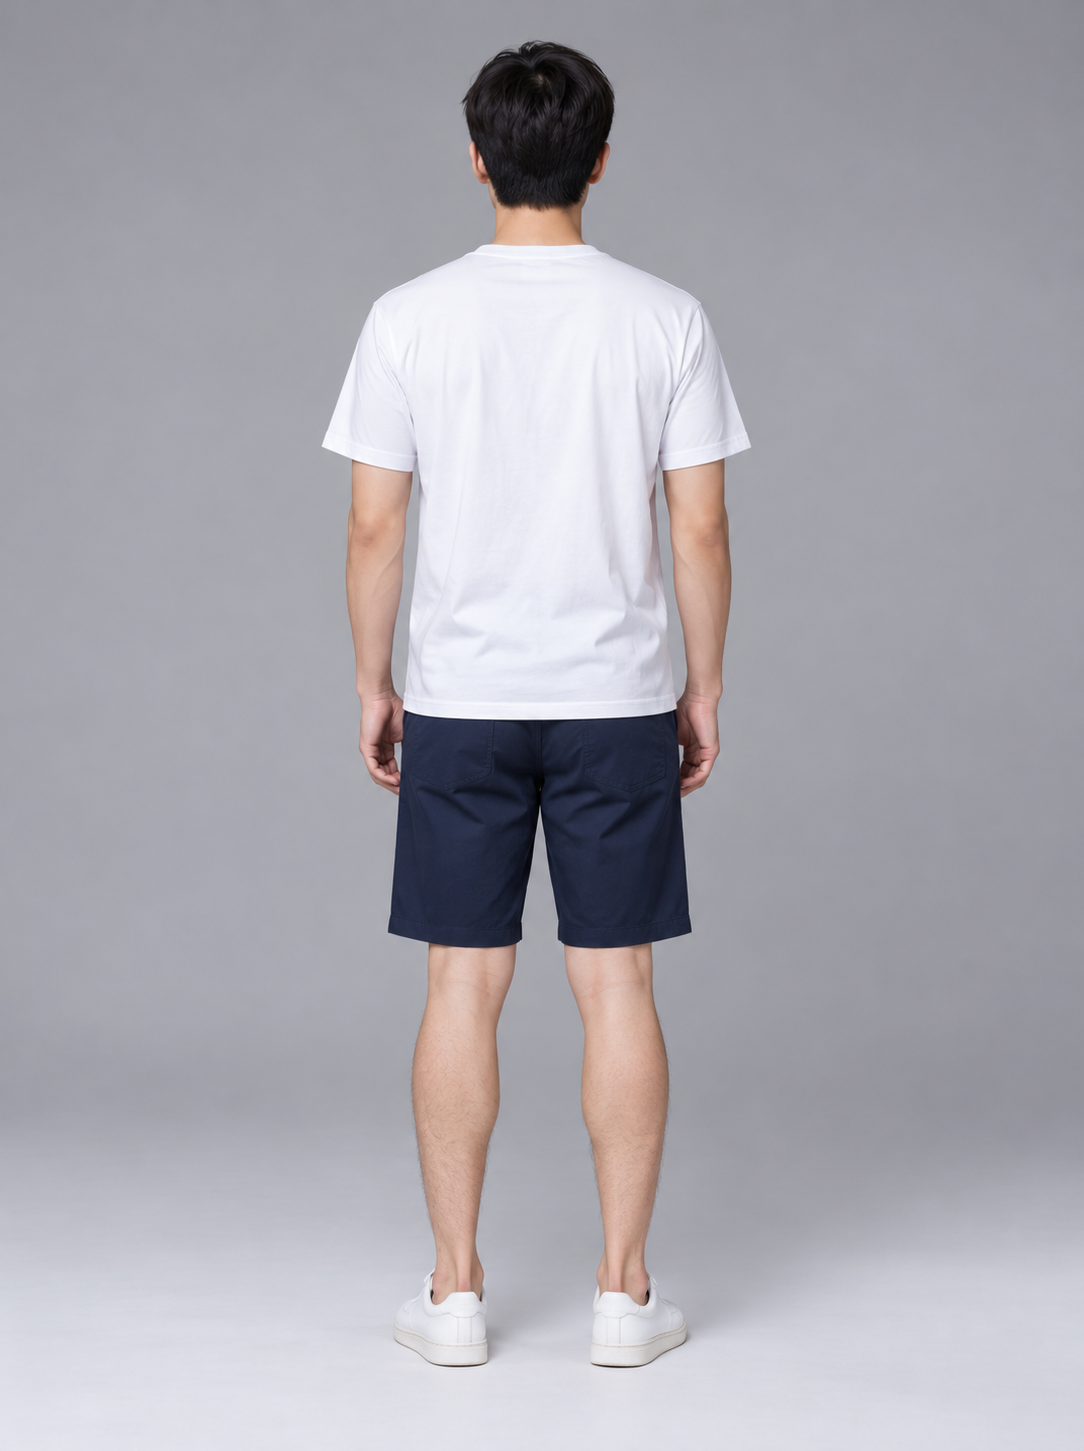
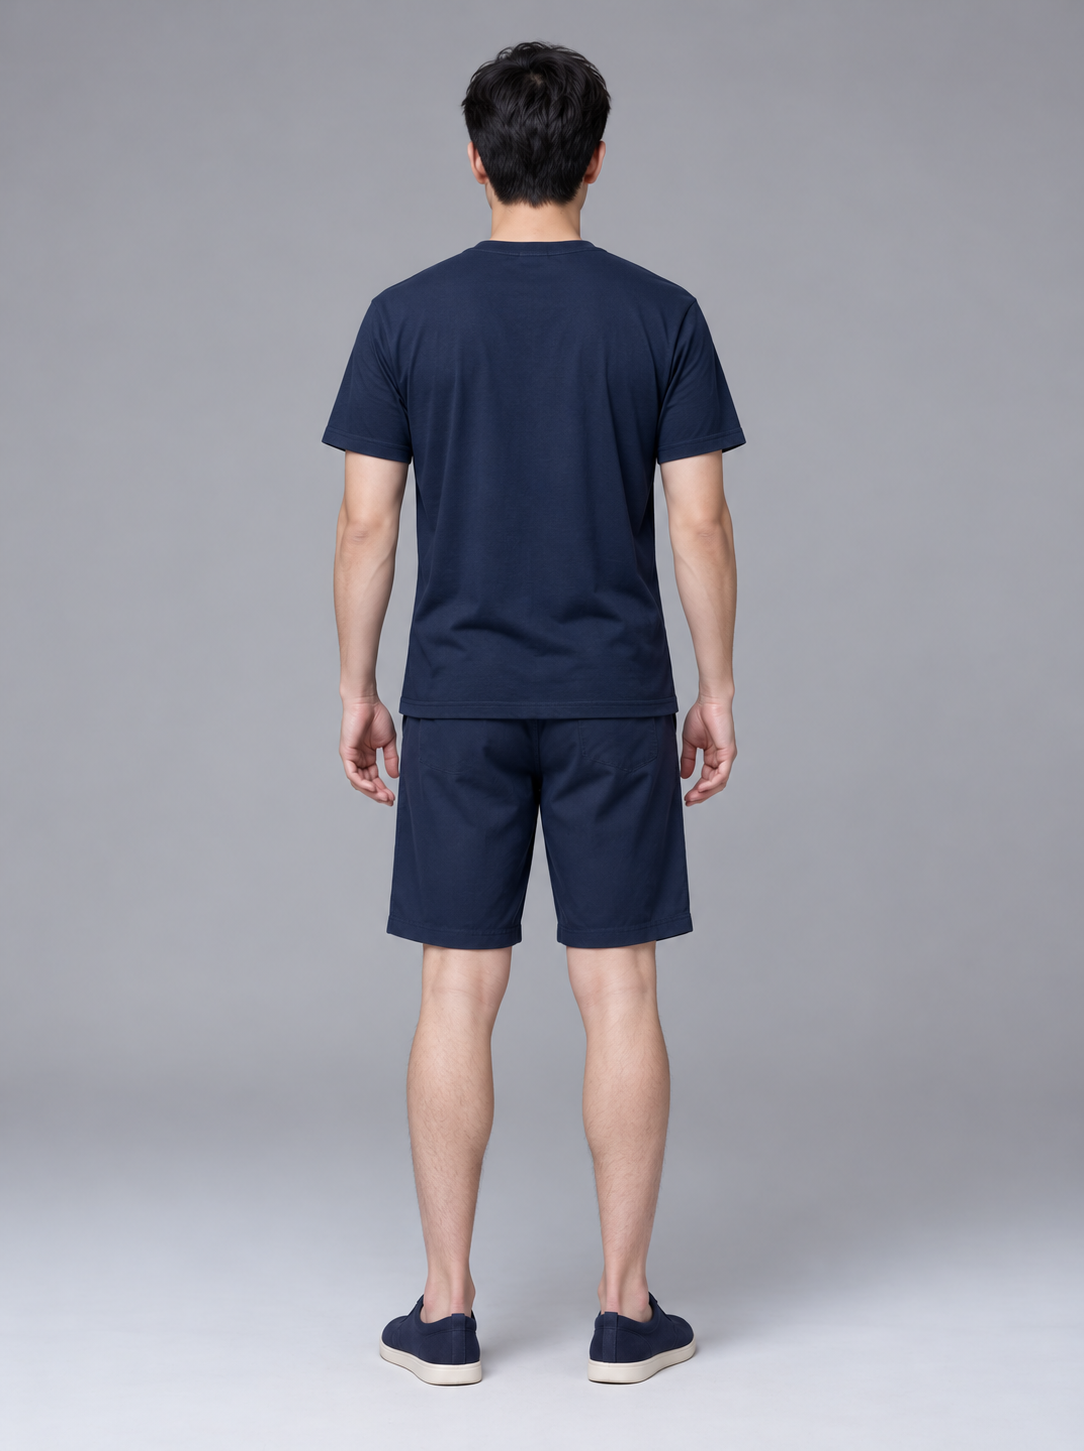
Replace Gu Cheng'an's clothed plates with hands and feet in frame.
Codex passed front 9.3875, side 9.3625, and back 9.375. The lock ref stays, and the archive slots take these three plates.

diff --git a/ai-realistic-comic/autodl/cast_body_template.py b/ai-realistic-comic/autodl/cast_body_template.py
@@ -112,9 +112,9 @@ CLOTHED_MEAN = {
     ("lin_wantang", "front"): 9.4125,
     ("lin_wantang", "side"): 9.4,
     ("lin_wantang", "back"): 9.4,
-    ("gu_chengan", "front"): 9.2,
-    ("gu_chengan", "side"): 9.3,
-    ("gu_chengan", "back"): 9.125,
+    ("gu_chengan", "front"): 9.3875,
+    ("gu_chengan", "side"): 9.3625,
+    ("gu_chengan", "back"): 9.375,
     ("elena_voss", "front"): 9.4625,
     ("elena_voss", "side"): 9.475,
     ("elena_voss", "back"): 9.3875,

diff --git a/ai-realistic-comic/docs/cast-body-two-stage.md b/ai-realistic-comic/docs/cast-body-two-stage.md
@@ -11,7 +11,7 @@
 
 十二个位置仍是四人各正、侧、背。2026-10-06 已用 Codex 过门的六张女人图替换女性位。阿德里安三向均分不动：正 9.25、侧 9.125、背 9.125。本仓库没有阿德里安穿衣 png。
 
-顾承安穿衣三向已用 Codex CLI 过门并入档。锁脸仍是 `library/cast/gu_chengan/ref.png`，没有换这张 ref。三张都去掉发套和发箍，衣服是 T恤和短裤。均分：正 9.2、侧 9.3、背 9.125。档案在 `library/cast/gu_chengan/body-clothed/`。这条穿衣不进 F34。再出时头、双手和双脚都完整入画，手不放进口袋。
+顾承安穿衣三向已用 Codex CLI 过门并入档。锁脸仍是 `library/cast/gu_chengan/ref.png`，没有换这张 ref。三张都去掉发套和发箍，衣服是 T恤和短裤。头、双手和双脚都完整入画，手不放进口袋。均分：正 9.3875、侧 9.3625、背 9.375。档案在 `library/cast/gu_chengan/body-clothed/`。这条穿衣不进 F34。
 
 女性位都在 `library/cast/<id>/body-clothed/<view>.png`，json 的 `lock` 是 `2026-10-06-front`，`entry` 是 `codex`，八项都 ≥ 9：林晚棠正 9.4125、侧 9.4、背 9.4，伊莲正 9.4625、侧 9.475、背 9.3875。去衣输入就是这张新底板。女性视图要这份 json 里 `passed` 且均分 ≥ 9 才去衣。
 
